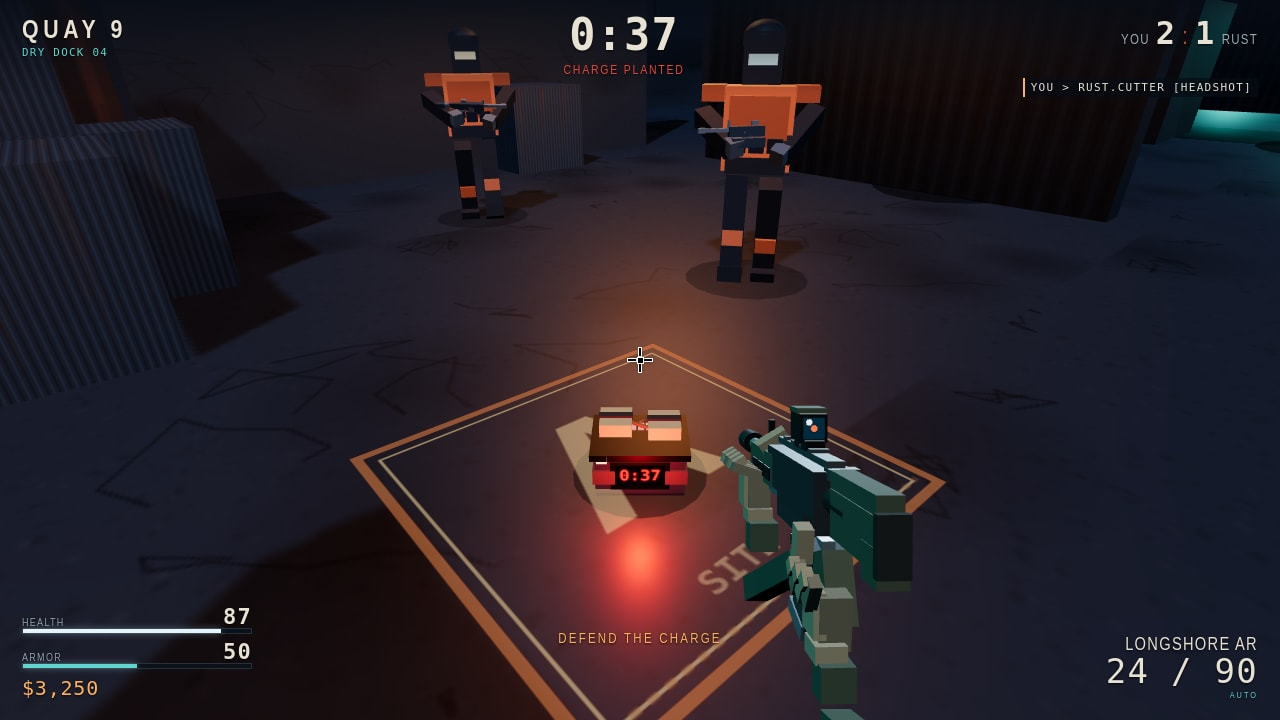
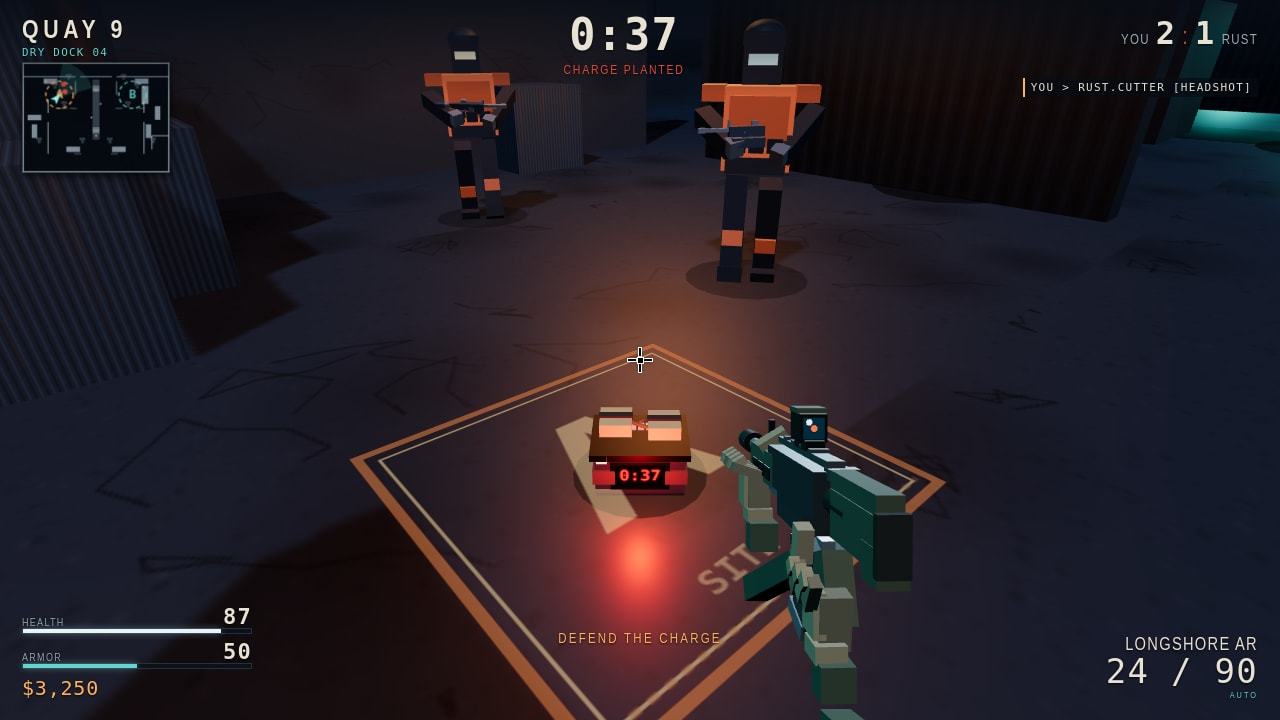
Phase 7: top-down radar and a flash core that is not clipped
- New game/src/minimap.js draws the level from the same collider list the bullets use: walls and cover from above, dashed sodium A and cyan B rings, a cyan facing cone, line-of-sight enemy dots, heard-only rings and the planted charge blip. The static plan is baked once into an offscreen canvas, the live pass only draws the moving parts.
- Every top cover on this board has a top-left minimap and QUAY 9 had none; this closes that gap without touching the round loop.
- The muzzle flash sprite sat on the bore cap, so depth testing cut a dark disc out of its hot centre. depthTest off and a renderOrder keep the flash whole while it still moves with the barrel.
- Staging: weapon.settle() after the staged shot zeroes the recoil kick, so the flash is captured on the resting bore. The tracer is built before the kick, so both now share one point: measured 0.39 px off the tracer axis, was 33.6 px.
- Re-captured all four frames on the new build; each 1280x720 and under 256 KiB.

Changed region(s): [[0.0, 0.0611, 0.1562, 0.2444]]

diff --git a/game/src/minimap.js b/game/src/minimap.js
@@ -1,0 +1,114 @@
+// Top-down radar for the dock. It draws from the same solid-AABB list that the
+// bullets and the bots consume, so the panel can never show a lane the player
+// cannot walk. Static geometry is baked once into an offscreen canvas and the
+// live pass only adds the facing cone, the player arrow, spotted enemies and
+// the planted charge, which keeps it cheap next to the WebGL draw.
+import { MAP } from './config.js';
+
+const SODIUM = 'rgba(255,177,92,';
+const CYAN = 'rgba(95,214,208,';
+const DANGER = 'rgba(229,72,60,';
+
+export function createRadar(canvas, map, state, bots) {
+  const W = 148;
+  const H = 111;
+  const dpr = Math.min(2, window.devicePixelRatio || 1);
+  canvas.width = Math.round(W * dpr);
+  canvas.height = Math.round(H * dpr);
+  const ctx = canvas.getContext('2d');
+  ctx.setTransform(dpr, 0, 0, dpr, 0, 0);
+
+  const sx = W / (MAP.maxX - MAP.minX);
+  const sz = H / (MAP.maxZ - MAP.minZ);
+  const px = (x) => (x - MAP.minX) * sx;
+  const pz = (z) => (z - MAP.minZ) * sz;
+
+  const base = document.createElement('canvas');
+  base.width = canvas.width;
+  base.height = canvas.height;
+  const bc = base.getContext('2d');
+  bc.setTransform(dpr, 0, 0, dpr, 0, 0);
+  bc.fillStyle = 'rgba(5,10,16,.88)';
+  bc.fillRect(0, 0, W, H);
+  for (const box of map.colliders) {
+    const tall = box.maxy - box.miny >= 1.35;
+    bc.fillStyle = tall ? 'rgba(150,168,180,.82)' : 'rgba(120,136,148,.42)';
+    bc.fillRect(px(box.minx), pz(box.minz), (box.maxx - box.minx) * sx, (box.maxz - box.minz) * sz);
+  }
+  for (const key of ['A', 'B']) {
+    const site = map.sites[key];
+    const cx = px(site.x);
+    const cy = pz(site.z);
+    bc.strokeStyle = (key === 'A' ? SODIUM : CYAN) + '.85)';
+    bc.setLineDash([4, 3]);
+    bc.lineWidth = 1.5;
+    bc.beginPath();
+    bc.arc(cx, cy, site.radius * sx, 0, Math.PI * 2);
+    bc.stroke();
+    bc.setLineDash([]);
+    bc.fillStyle = (key === 'A' ? SODIUM : CYAN) + '.9)';
+    bc.font = '700 12px ui-monospace,Menlo,Consolas,monospace';
+    bc.textAlign = 'center';
+    bc.textBaseline = 'middle';
+    bc.fillText(key, cx, cy);
+  }
+  bc.strokeStyle = 'rgba(232,226,212,.22)';
+  bc.strokeRect(0.5, 0.5, W - 1, H - 1);
+
+  let clock = 0;
+  function update(dt) {
+    clock -= dt;
+    if (clock > 0) return;
+    clock = 0.06;
+    const P = state.player;
+    const ax = px(P.x);
+    const ay = pz(P.z);
+    const ang = Math.atan2(-Math.cos(state.yaw), -Math.sin(state.yaw));
+    ctx.clearRect(0, 0, W, H);
+    ctx.drawImage(base, 0, 0, W, H);
+    ctx.fillStyle = CYAN + '.16)';
+    ctx.beginPath();
+    ctx.moveTo(ax, ay);
+    ctx.arc(ax, ay, 38, ang - 0.55, ang + 0.55);
+    ctx.closePath();
+    ctx.fill();
+    ctx.save();
+    ctx.translate(ax, ay);
+    ctx.rotate(ang);
+    ctx.fillStyle = '#8ff2ec';
+    ctx.beginPath();
+    ctx.moveTo(7, 0);
+    ctx.lineTo(-4, 4);
+    ctx.lineTo(-2, 0);
+    ctx.lineTo(-4, -4);
+    ctx.closePath();
+    ctx.fill();
+    ctx.restore();
+    for (const bot of bots.squad) {
+      if (!bot.alive) continue;
+      const dx = bot.x - P.x;
+      const dz = bot.z - P.z;
+      const d = Math.hypot(dx, dz);
+      if (d > 34) continue;
+      const seen = d < 1.2 || !map.blocked(P.x, 1.45, P.z, dx / d, 0, dz / d, d);
+      const heard = state.time - (bot.lastHeardAt || -9) < 2.4;
+      if (!seen && !heard) continue;
+      ctx.beginPath();
+      ctx.arc(px(bot.x), pz(bot.z), 2.6, 0, Math.PI * 2);
+      if (seen) {
+        ctx.fillStyle = DANGER + '.95)';
+        ctx.fill();
+      } else {
+        ctx.strokeStyle = DANGER + '.7)';
+        ctx.lineWidth = 1;
+        ctx.stroke();
+      }
+    }
+    const bomb = state.bomb;
+    if (bomb && bomb.planted) {
+      ctx.fillStyle = SODIUM + (bomb.fuse % 0.6 < 0.3 ? '.95)' : '.35)');
+      ctx.fillRect(px(bomb.x) - 3, pz(bomb.z) - 3, 6, 6);
+    }
+  }
+  return { update };
+}

diff --git a/game/src/weapon.js b/game/src/weapon.js
@@ -10,9 +10,13 @@ export function createWeapon(state, scene, vmScene, map, bots, player, effects, 
   const rng = mulberry32(917);
   const group = new THREE.Group();
   vmScene.add(group);
-  const flashMaterial = new THREE.SpriteMaterial({ map: makeFlashTexture(), transparent: true, opacity: 0, depthWrite: false, blending: THREE.AdditiveBlending });
+  // The sprite sits on the bore cap, so it has to draw over the barrel instead
+  // of being clipped by it: depthTest off keeps the hot centre from turning into
+  // a black disc in the middle of the flash.
+  const flashMaterial = new THREE.SpriteMaterial({ map: makeFlashTexture(), transparent: true, opacity: 0, depthWrite: false, depthTest: false, blending: THREE.AdditiveBlending });
   const flash = new THREE.Sprite(flashMaterial);
   flash.scale.setScalar(0.11);
+  flash.renderOrder = 4;
   flash.visible = false;
   const flashLight = new THREE.PointLight(PALETTE.sodium, 0, 3, 2);
   const rim = new THREE.DirectionalLight(PALETTE.cyan, 0.9);
@@ -557,6 +561,14 @@ export function createWeapon(state, scene, vmScene, map, bots, player, effects, 
     plantHands.visible = group.visible && state.plant.active;
   }
 
+  // Used by the screenshot staging: after a shot, drop the recoil kick so the
+  // flash can be captured on the resting bore instead of a kicked-up one. The
+  // tracer is built from the resting pose, so both then share one point.
+  function settle() {
+    kick = 0;
+    reloadSway = 0;
+  }
+
   function resetRound() {
     for (const id of ['pistol', 'smg', 'rifle', 'shotgun']) {
       state.ammo[id].mag = WEAPONS[id].mag;
@@ -576,5 +588,5 @@ export function createWeapon(state, scene, vmScene, map, bots, player, effects, 
   function accuracy() { return state.shots > 0 ? Math.round((state.hits / state.shots) * 100) : 0; }
 
   applyLayout();
-  return { fire, reload, equip, selectGrenade, throwGrenade, update, resetRound, accuracy, group };
+  return { fire, reload, equip, selectGrenade, throwGrenade, update, resetRound, settle, accuracy, group };
 }

diff --git a/game/index.html b/game/index.html
@@ -71,7 +71,8 @@ button:hover,button:focus-visible{border-color:var(--sodium);color:var(--sodium)
 @keyframes feedin{from{opacity:0;transform:translateX(8px)}to{opacity:1;transform:none}}
 #vignette{position:absolute;inset:0;opacity:0;background:radial-gradient(ellipse at center,#0000 52%,#e5483c66 78%,#830b0bd9 100%);transition:opacity .1s}
 #flash{position:absolute;inset:0;background:#fff;opacity:0;transition:opacity .12s}
-#callout{position:absolute;left:22px;top:96px;font-size:12px;color:var(--cyan);opacity:0;transition:opacity .2s;border-left:2px solid var(--cyan);padding-left:8px}
+#radar{position:absolute;left:22px;top:62px;width:148px;height:111px;background:#050a10cc;border:1px solid #3c4a56;box-shadow:0 2px 8px #000c}
+#callout{position:absolute;left:22px;top:184px;font-size:12px;color:var(--cyan);opacity:0;transition:opacity .2s;border-left:2px solid var(--cyan);padding-left:8px}
 #callout.on{opacity:1}
 .overlay{position:fixed;inset:0;display:none;place-items:center;background:#050a11c9;z-index:10}
 .overlay.on{display:grid}
@@ -130,6 +131,7 @@ h1 em{font-style:normal;color:var(--sodium)}
 <body>
 <canvas id="view"></canvas>
 <div id="hud">
+  <canvas id="radar"></canvas>
   <header id="top">
     <div id="brand"><b>QUAY 9</b><small>DRY DOCK 04</small></div>
     <div id="clock"><div id="timer">1:45</div><div id="bombState">CHARGE CARRIED</div></div>

diff --git a/game/src/main.js b/game/src/main.js
@@ -14,6 +14,7 @@ import { createPlayer } from './player.js';
 import { createWeapon } from './weapon.js';
 import { createEffects } from './effects.js';
 import { createHud } from './hud.js';
+import { createRadar } from './minimap.js';
 import { createAudio } from './audio.js';
 import { createShot, readShot } from './shot.js';
 
@@ -61,6 +62,7 @@ const hud = createHud(state);
 const input = createInput(state, canvas, () => hud.setOverlay('pause'));
 const player = createPlayer(state, camera, map, input, audio);
 const bots = createBots(state, scene, map, nav, player, hud, audio, effects);
+const radar = createRadar(document.getElementById('radar'), map, state, bots);
 const weapon = createWeapon(state, scene, vmScene, map, bots, player, effects, audio, hud, input);
 const rounds = createRounds(state, scene, map, player, bots, weapon, hud, audio, effects, input);
 const shooter = createShot(state, { player, weapon, bots, rounds, hud });
@@ -109,6 +111,7 @@ function step() {
 function render() {
   player.applyCamera();
   hud.update(FIXED);
+  radar.update(FIXED);
   renderer.clear(true, true, true);
   renderer.render(scene, camera);
   renderer.clearDepth();

diff --git a/game/src/shot.js b/game/src/shot.js
@@ -119,6 +119,7 @@ export function createShot(state, deps) {
     state.hits = 0;
     state.consecutive = 0;
     if (weapon.fire()) {
+      weapon.settle();
       state.shotTimer = 0;
       state.consecutive = 0;
       // Keep the staged reticle tight; a 22 px spread gap read as a broken
